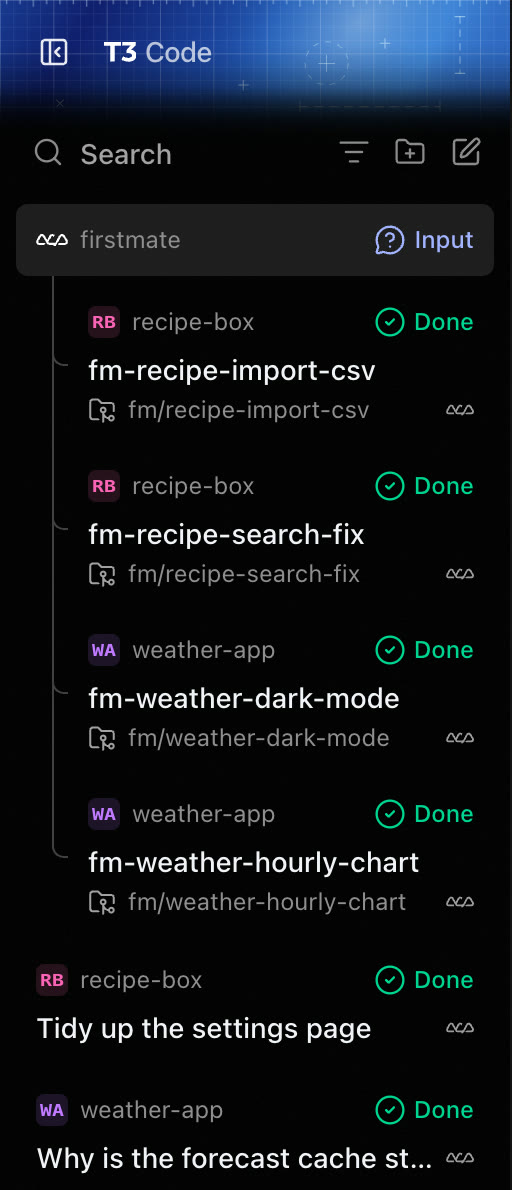
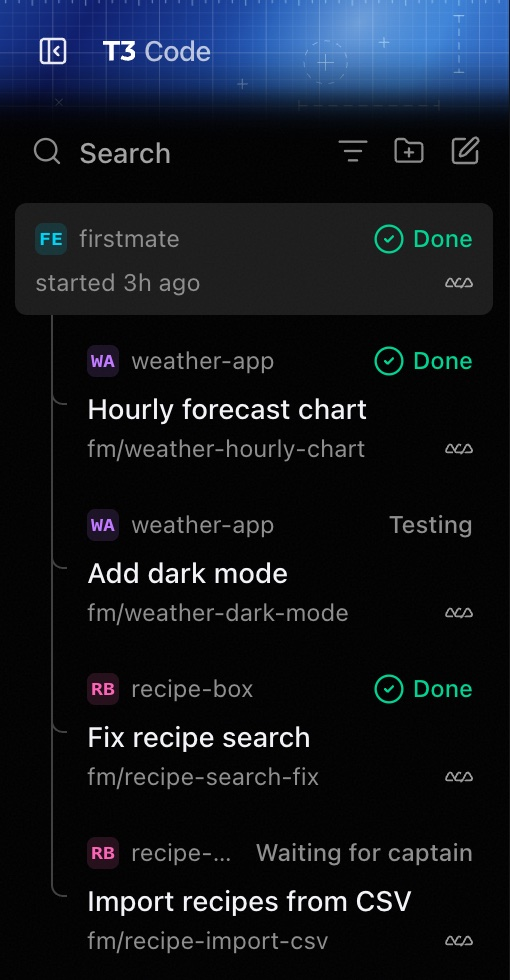
docs(fork): list every deviation from upstream and correct stale entries
The README fork section missed several deviations and bundled others, and
fork/README.md still described the one-line FirstMate card and a launch jump
that only took a live session.

The README now has one short linked line per deviation. fork/README.md gains
entries for stopped turns closing their approvals, two-line sidebar cards and
the removed mobile behavior eval, corrects the sidebar, usage, path, archive
and per-thread entries against the code, and has new made-up pictures of the
sidebar and Refresh context. The MCP server doc no longer says OpenCode v2
takes no environment.

diff --git a/fork/README.md b/fork/README.md
@@ -43,7 +43,9 @@ Three things are still shared with the official app:
 ![The Usage page's 12 months view: a year of daily cost as stacked bars, split by Codex and Claude Code](media/usage-12-months.png)
 
 The Usage page on web and desktop has 6 months (`Cmd+Shift+5`) and 12 months
-(`Cmd+Shift+6`) periods, drawn as stacked daily bars. The mobile app still
+(`Cmd+Shift+6`) periods. Every period draws one stacked bar per day or hour,
+because upstream's overlapping lines turn into a smear over long ranges. The
+mobile app already draws bars and still
 stops at 90 days. The server keeps parsed usage for 367 days instead of 92, so
 usage stays after Claude Code deletes old transcripts. History older than what
 is on disk or in the saved usage today cannot be recovered; twelve months builds
@@ -83,8 +85,7 @@ defaults to `["~/.t3-usage-archive"]` and can be changed in
   as `<host>/home/.claude/projects`.
 - These are read: Claude `projects/`, Codex `sessions/`, Grok
   `.grok/sessions/`, and a T3 server's saved usage
-  (the newest of `usage-scan-cache-v9.json` down to `usage-scan-cache.json`,
-  version 3 on).
+  (the newest `usage-scan-cache*.json` in a folder, version 3 on).
   Saved usage still has usage whose transcripts were deleted. Version 3 caches
   are priced at standard speed. OpenCode, Pi and Antigravity copies are not
   read.
@@ -106,13 +107,13 @@ upstream's handling of WinGet's Claude, in
 
 ## `~` in a provider's executable path
 
-A provider path that starts with `~` works for every provider. OpenCode, Grok,
-Pi, fx, Antigravity, Kiro and the ACP registry used a configured path such as
-`~/.local/bin/opencode` as written. Processes launch without a shell, so
-the provider showed as not installed. Each of those drivers now expands a
+A provider path that starts with `~` works for every provider. Upstream's Grok,
+Pi, fx, Antigravity, Kiro and ACP registry drivers use a configured path such as
+`~/.local/bin/grok` as written. Processes launch without a shell, so
+the provider shows as not installed. Here each of those drivers expands a
 leading `~` with `expandHomePath` before probing, spawning, resolving
-maintenance or reporting status, as Codex, Claude and Muse already did. Cursor
-never runs its `binaryPath`, so it is unchanged. When a sync finds upstream
+maintenance or reporting status, as Codex, Claude, Muse and OpenCode do upstream.
+Cursor never runs its `binaryPath`, so it is unchanged. When a sync finds upstream
 expanding `~` in these drivers, keep upstream's.
 
 ## Idle agent release is a server setting
@@ -153,7 +154,8 @@ It is Excalidraw (MIT), loaded only when the tab shows. Screenshots pasted with
 Cmd+V while focus is in the panel land in the middle of the view. The board is
 saved in the client's IndexedDB, one board per client, shared by every chat's
 Board tab. "Attach to chat" sends the selection, or the whole board, as a PNG to
-the composer of the chat beside the panel. The canvas is marked
+the composer of the chat beside the panel, and "Copy" puts the same PNG on the
+clipboard. The canvas is marked
 `data-editable-canvas` and `role="application"` so its keys (tool letters, Cmd+Z,
 Delete) are not taken by type-to-focus or thread undo. Code:
 `apps/web/src/components/board/`.
@@ -169,15 +171,22 @@ otherwise use. The mobile app has no board.
 
 ## FirstMate crew in the sidebar
 
-<img src="media/firstmate-sidebar.jpg" width="256" alt="The sidebar: a FirstMate session waiting on input at the top, its four crewmate threads in a tree below it, then ordinary threads">
+<img src="media/firstmate-sidebar.jpg" width="255" alt="The sidebar: a FirstMate card reading started 3h ago at the top, with four crewmate threads in a tree below it, two of them showing the status labels Testing and Waiting for captain">
 
 A FirstMate session and the worker threads it launches are grouped above the
-sidebar inbox and kept out of Working. The main session shows as one line led
-by its model icon; its crewmates hang below it as a tree that collapses to a
-count. Crewmate cards have no hover Snooze or Settle (the context menu still
-has both), and crewmate turns raise no sound or notification. Opening the app
-on the home route jumps to a FirstMate session that is still working or waiting
-on input. Without crew threads the sidebar is unchanged.
+sidebar inbox and kept out of Working. The main session is a two-line card: its
+project and status, then "started 3h ago" where a crewmate shows its title,
+because age is what says a long session is due for a fresh one. It never shows a
+branch line. Its crewmates hang below it as a tree that collapses to a count. A
+pinned coordinator (see below) gets this card even with no crew; without any
+coordinator the sidebar is unchanged.
+
+The FirstMate and crew cards have no hover Snooze or Settle (the context menu
+still has both, and snoozing or settling takes a thread out of the group). They
+drag only as chat context, and crewmate turns raise no sound or notification. A
+fresh page load on the home route opens a coordinator whatever its run status,
+the most recently updated if there are several, because a restart ends every
+run. A thread's Lineage panel lists its Crew or Coordinator.
 
 Upstream counts a background command as work only when the agent marks it with
 `t3_background_wait`, so an unmarked one leaves a thread reading Done. A
@@ -189,7 +198,7 @@ and auto-settle keep upstream's rule. Code: `threadWaitsOnBackgroundWork` in
 A coordinator can put a short status on a crewmate's card, such as "Waiting for
 captain" or "Testing": `t3_thread_update` with `action:'set_status_label'` and
 `statusLabel` (32 characters at most), and `action:'clear_status_label'` to take
-it off. The label sits where Working or the age would, so the title stays plain.
+it off. The label sits where Working, Done or the age would, so the title stays plain.
 Approval, Input, Request, Limited, Failed and Woke still show over it, because a
 label can lag behind a thread that needs the user. A label is stored with the
 thread (`statusLabel`), thread reads report it, forks drop it, and changing it
@@ -222,10 +231,23 @@ continuation wakes it). The project's continue-after-update setting
 (`continueThreadsAfterServerUpdate`) switches it off. A thread pinned with
 `t3_thread_configure` `coordinator: true` (one per project; pinning moves it,
 `false` unpins) gets the note after every start even with no crew or while busy,
-and thread reads report `coordinator`. Code:
+thread reads report `coordinator`, and `orchestrator_capabilities` reports
+`coordinatorRestartNote`. Forks and side chats drop the pin and the crew link, so
+forking FirstMate cannot make a second coordinator. Code:
 `notifyCrewCoordinators` in `apps/server/src/orchestration-v2/RestartContinuation.ts`.
 
+## Sidebar cards stay two lines
+
+This one applies to every thread. Upstream gives a card with no branch but a
+linked pull request or running terminal a third line holding just that badge and
+the model icon. Here the meta line appears only for a branch, machine label or
+diff; otherwise those badges sit right-aligned on the title line, which truncates
+before them. Folder multiline rows follow the same rule. Code:
+`isThreadMetaLineEmpty` in `apps/web/src/components/Sidebar.logic.ts`.
+
 ## Refresh context on the FirstMate thread
+
+<img src="media/refresh-context.jpg" width="744" alt="A FirstMate thread with the Refresh context button in its header, a New session divider in the chat, and the message Context refreshed. sent by T3 Code">
 
 The FirstMate thread keeps one id and one chat for its whole life, while the
 agent session behind it is replaced on demand. The thread header of a pinned
@@ -261,12 +283,16 @@ in `apps/server/src/orchestration-v2/threadHistoryPaging.ts`, and
 ## Per-thread environment and instructions
 
 An agent that launches a thread can give it its own environment variables and
-instructions, for any provider. `t3_thread_launch` takes optional `environment`
-(env vars) and `instructions` (kept in the agent's system context), stored on
-the thread so they survive idle release, restarts and forks. Each adapter
-applies them through the channel it already has and declares what it
+instructions. `t3_thread_launch` takes optional `environment` (env vars, at most
+64 and 16 KB, never T3's own names) and `instructions` (kept in the agent's
+system context, at most 16,000 characters), stored on
+the thread so they survive idle release, restarts and forks, though not
+delegated children. Values sit in the database, so they must not be secrets. Each
+adapter applies them through the channel it already has and declares what it
 supports; a launch or later turn that binds something its provider cannot
-apply is refused. `t3_thread_configure` reads them back with the effective
+apply is refused. Kiro's adapter declares neither, so it refuses both. Cursor
+takes instructions only, because it runs inside the server process. The other
+providers take both. `t3_thread_configure` reads them back with the effective
 runtime mode, and `orchestrator_capabilities` reports `threadEnvironment`,
 `threadInstructions` and an ACP registry instance's `agentId`. Code:
 `apps/server/src/orchestration-v2/RuntimePolicy.ts`.
@@ -277,8 +303,9 @@ server's environment in the session's shells, is kept in memory only, and is not
 inherited by subagent sessions. So T3 sends every session, subagents included,
 the environment it started the server with minus `OPENCODE_PASSWORD`, plus the
 thread's variables. It sends this again after the server restarts. An external
-server (`serverUrl`) has an environment T3 does not know, so it stays
-unsupported. Code: `packages/provider-opencode/src/server/v2/adapter.ts`.
+server (`serverUrl`), on either OpenCode adapter, has an environment T3 does not
+know or cannot reach, so it takes instructions only. Code:
+`packages/provider-opencode/src/server/v2/adapter.ts`.
 
 ## Agents answer approvals over MCP
 
@@ -293,6 +320,19 @@ other than the asking thread may answer one. The resolved request and its
 timeline row record `respondedBy: "agent"`, which web and mobile show as
 "answered by agent". `orchestrator_capabilities` reports `approvalResponses`.
 Code: `apps/server/src/mcp/toolkits/thread/handlers.ts`.
+
+## Stopped turns close their approvals
+
+Upstream closes only a stopped turn's questions, so an approval such as a Claude
+command prompt stays pending forever: the app keeps showing a prompt for a tool
+call that no longer exists, and the thread reports a pending request. Here a turn
+that ends interrupted, failed or cancelled expires every pending request it
+raised. A turn that completes still closes only its questions, because a
+background subagent's approval can still be live then. These requests close as
+`expired`, not `cancelled`, and the guard that keeps a just-committed answer from
+being overwritten covers every request kind. Code: `expireTurnRequests` in
+`apps/server/src/orchestration-v2/ProviderEventIngestor.ts` and
+`guardRequestClosures` in `EventSink.ts`.
 
 ## Waits end on a question or approval
 
@@ -318,8 +358,8 @@ clears through `thread.visit`, which only a client sent. `t3_thread_organize`
 now has `action: "mark_read"`, the opposite of `mark_unread`: it dispatches
 `thread.visit` with `visitedAt` set to now, so the thread reads as seen. It does
 not count as the user opening the thread. Clients detect it by `mark_read` in the
-tool's `tools/list` `action` enum. Upstream has no equivalent in the
-version last synced (`cefb544af3`). Code: `apps/server/src/mcp/toolkits/thread/handlers.ts`.
+tool's `tools/list` `action` enum. Upstream main had no equivalent at
+`337c5858c3`. Code: `apps/server/src/mcp/toolkits/thread/handlers.ts`.
 
 ## FirstMate's sign-in lasts 10 years
 
@@ -344,6 +384,14 @@ export does not reach an app opened from the Dock: run
 `launchctl setenv T3CODE_TELEMETRY_ENABLED true` and restart the app, or start
 the app from a terminal that has the variable set. Your own OpenTelemetry export
 and the mobile app's crash reports have their own settings.
+
+## No mobile behavior eval
+
+Upstream's `vp run mobile:behavior` eval is removed here: `scripts/mobile-behavior/`,
+the app's dev-only behavior probe, the script, its knip entry and its ignore
+line. No fork feature uses it, and dropping it avoids sync conflicts. Upstream
+main still has it (`ff71186669`), so a sync that touches those files needs the
+same removal again, or a decision to take it back.
 
 ## Version
 

diff --git a/README.md b/README.md
@@ -6,17 +6,29 @@ A fork of [pingdotgg/t3code](https://github.com/pingdotgg/t3code), built to host
 
 For FirstMate:
 
-- FirstMate sessions and their workers grouped as a tree in the sidebar.
-- FirstMate can answer a worker's permission prompts, and hears its questions the moment they appear.
-- Per-thread settings for agent-launched workers, and idle agents can be kept for good.
-- FirstMate can mark a worker's thread read, clearing its Done card without opening the app.
-- FirstMate's sign-in lasts 10 years instead of 30 days, so it never needs renewing.
+- [Crew sidebar](fork/README.md#firstmate-crew-in-the-sidebar): FirstMate and its workers as a tree, with short status labels.
+- [Refresh context](fork/README.md#refresh-context-on-the-firstmate-thread): a button swaps FirstMate's session for a fresh one on the same thread.
+- [Approvals over MCP](fork/README.md#agents-answer-approvals-over-mcp): FirstMate answers a worker's permission prompts.
+- [Waits end on a question](fork/README.md#waits-end-on-a-question-or-approval): FirstMate hears a question or approval the moment it appears.
+- [Per-thread settings](fork/README.md#per-thread-environment-and-instructions): each launched worker gets its own environment and instructions.
+- [Idle agents](fork/README.md#idle-agent-release-is-a-server-setting): idle release is a setting, and agents can be kept for good.
+- [Mark read](fork/README.md#mcp-can-mark-a-thread-read): FirstMate clears a worker's Done card without opening the app.
+- [Long sign-in](fork/README.md#firstmates-sign-in-lasts-10-years): FirstMate's sign-in lasts 10 years instead of 30 days, so it never needs renewing.
 
 Also:
 
-- Its own app, T3 Code (Fork), beside the official one. Telemetry off by default.
-- A Board tab to sketch on screenshots, usage up to 12 months, and a note when upstream ships a release.
-- Click a provider on the Usage page to mute it and dial into one provider's usage.
+- [Its own app](fork/README.md#desktop-identity): T3 Code (Fork) runs beside the official one.
+- [Telemetry off](fork/README.md#telemetry-off-by-default): nothing is sent unless you opt in.
+- [Board](fork/README.md#board): a tab to sketch on screenshots and attach them to the chat.
+- [Twelve months of usage](fork/README.md#usage-reaches-twelve-months): longer periods, drawn as stacked bars.
+- [Muted usage rows](fork/README.md#usage-rows-can-be-muted): click a provider on the Usage page to mute it.
+- [Archived usage](fork/README.md#archived-usage): counts machines that no longer run T3.
+- [Upstream release note](fork/README.md#upstream-release-indicator): the sidebar says when upstream ships a release.
+- [App-bundled CLIs](fork/README.md#app-bundled-clis-are-updated-by-their-app): a CLI inside a macOS app is left for that app to update.
+- [`~` in provider paths](fork/README.md#-in-a-providers-executable-path): works for every provider.
+- [Stopped turns](fork/README.md#stopped-turns-close-their-approvals): their approvals close instead of staying pending.
+- [Two-line cards](fork/README.md#sidebar-cards-stay-two-lines): a lone PR badge no longer adds a third line.
+- [No mobile behavior eval](fork/README.md#no-mobile-behavior-eval): upstream's eval is removed here.
 
 Details and pictures: [fork/README.md](fork/README.md).
 

diff --git a/docs/orchestration-v2/orchestrator-mcp-server.md b/docs/orchestration-v2/orchestrator-mcp-server.md
@@ -393,9 +393,10 @@ set after them. Codex sets them per thread through
 `shell_environment_policy.set`, so its shared app-server never leaks them to
 another thread. An adapter declares what it applies; launching, or later
 running, a thread on one that would drop either field is refused rather than
-silently ignored. Cursor runs in the server process and OpenCode v2 or a
-configured OpenCode server is shared, so they take instructions but no
-environment. `t3_thread_configure` reads both back with `effectiveRuntimeMode`,
+silently ignored. Cursor runs in the server process and a configured OpenCode
+server is already running, so they take instructions but no environment. OpenCode
+v2 shares one server, so it sets each session's environment instead. Kiro
+applies neither. `t3_thread_configure` reads both back with `effectiveRuntimeMode`,
 which shows when a provider runs a mode it lacks as `approval-required`.
 
 ### `t3_thread_list`
